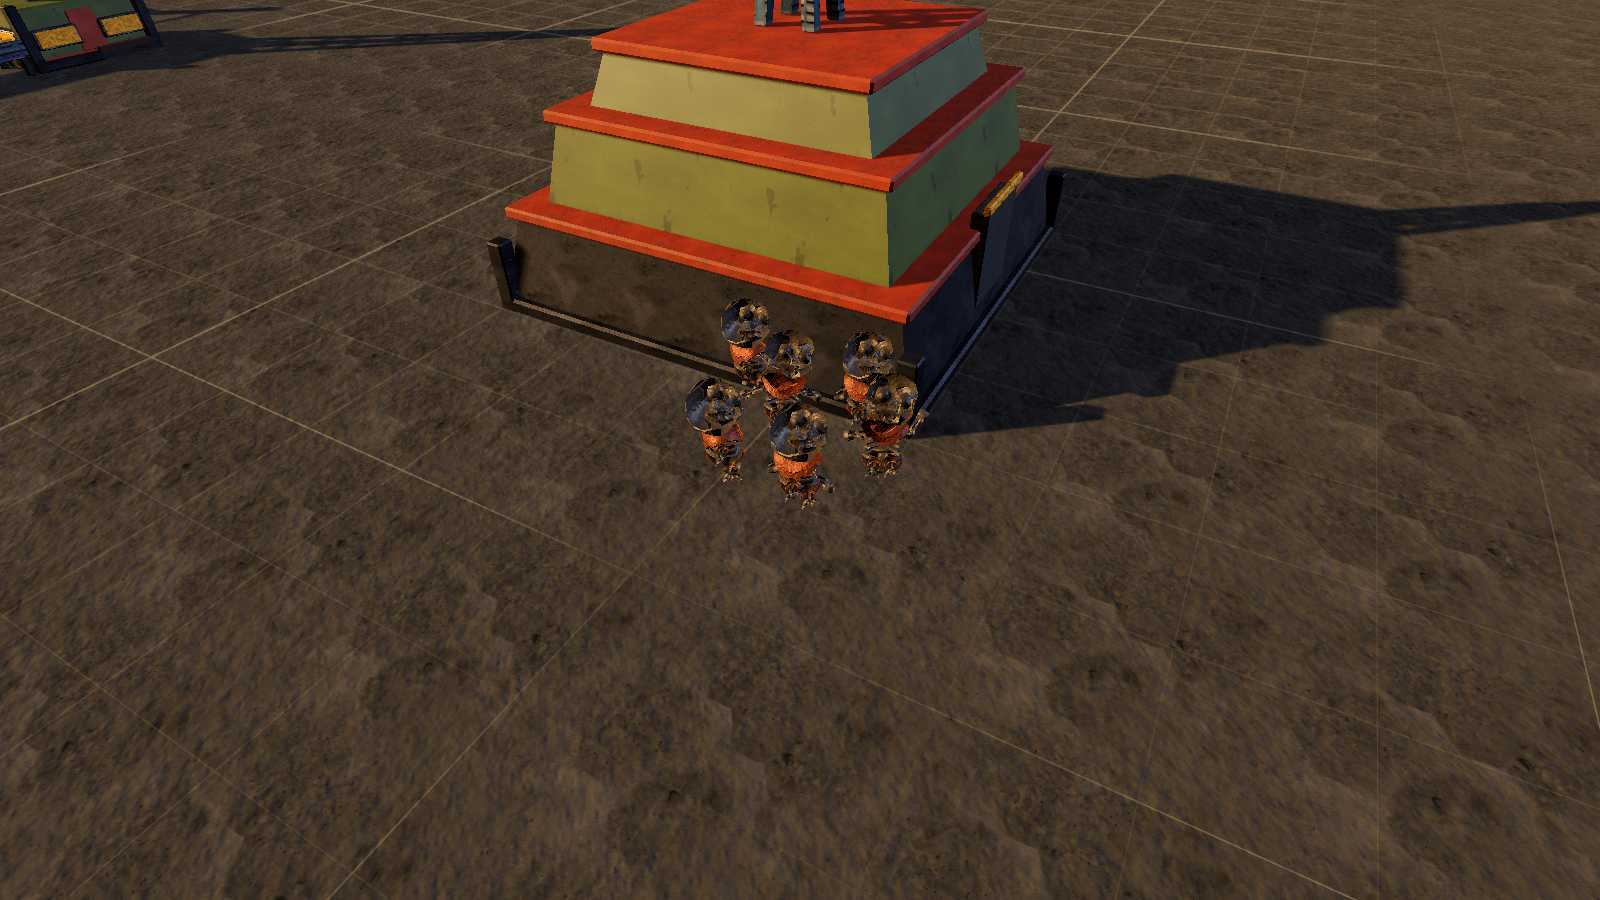
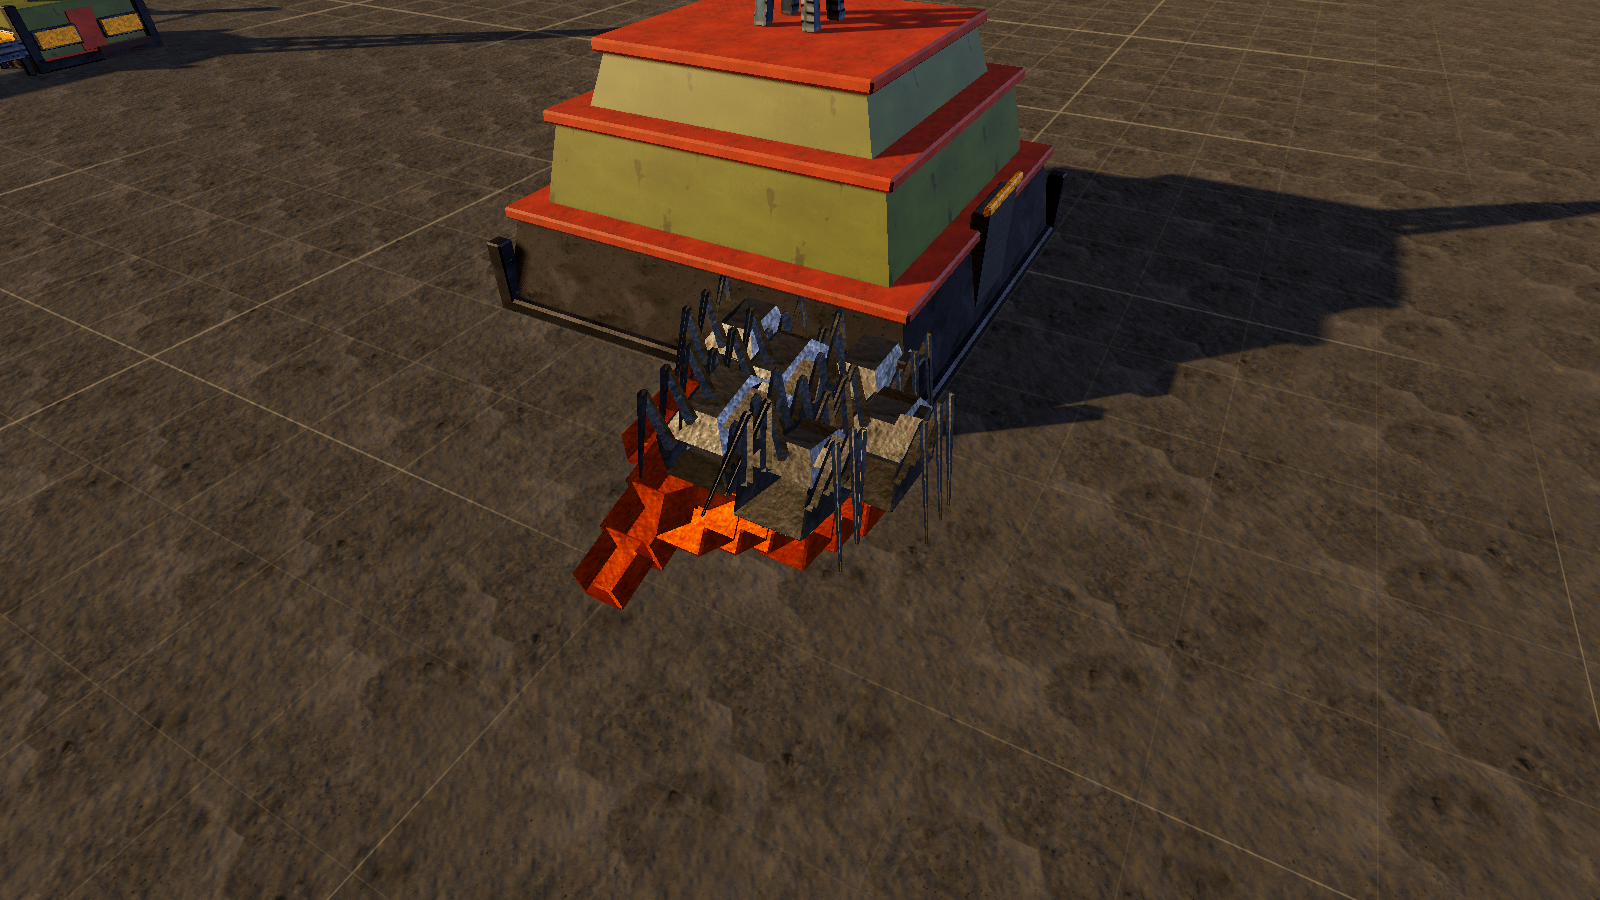
#80: re-render the pair on the merged tip, where the Enemies are #79's insects
Both halves of both pairs are rendered from the same tree, with the shipped
`_nest` restored for the `before`, so the only thing that differs between them
is the Nest. Every measured figure came back unchanged across the merge, which
is the Machine-and-ground control stated a second way.

Changed region(s): [[0.3438, 0.3111, 0.5938, 0.6844]]

diff --git a/CLAUDE.md b/CLAUDE.md
@@ -1452,7 +1452,21 @@ Nest is cast iron and steel with an oxide edge, which is `_nest`'s own docstring
 | Machine, sunlit top | 0.0804 | 1.80x | 0.0804 | 1.80x |
 
 **The Machine and the ground rows are byte-identical in both frames**, which is the control
-saying the change is the Nest's alone and not a palette edit wearing a disguise.
+saying the change is the Nest's alone and not a palette edit wearing a disguise. Both halves
+were re-rendered on the tip with #79 merged in — the Enemies in frame are its insects rather
+than the skeletons they replaced — and every figure above came back unchanged, which is the
+same control stated across a merge.
+
+```bash
+SHOT_SCRIPT=tools/visual/compose_wave_shot.gd tools/visual/shot.sh out.png "crush bare"
+tools/visual/shot.sh out.png survey
+```
+
+[`docs/images/nest_brightness_before.png`](docs/images/nest_brightness_before.png) against
+[`_after`](docs/images/nest_brightness_after.png) is the frame the complaint was made about;
+[`nest_brightness_survey_before.png`](docs/images/nest_brightness_survey_before.png) against
+[`_after`](docs/images/nest_brightness_survey_after.png) is the vantage that refused the
+candidate which went further.
 
 **The second vantage is what stopped this overshooting, and it very nearly did.** From Survey
 View the Nest measured **1.46x the ground against Machines at 1.59x and 1.80x** — *in family
